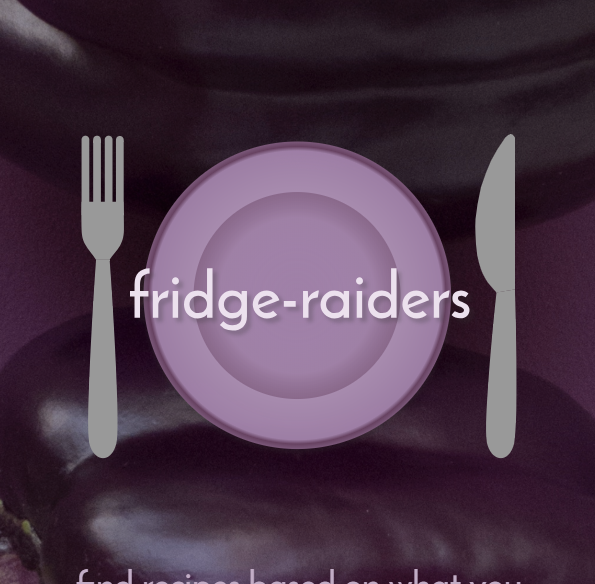
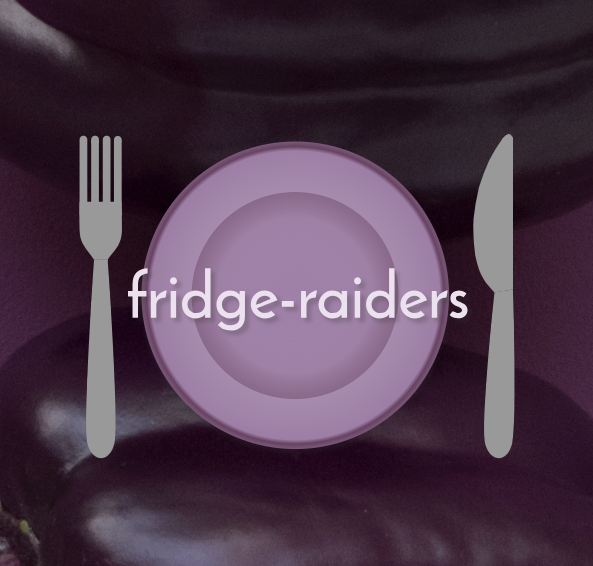
responsive

diff --git a/src/components/projects/projects.css b/src/components/projects/projects.css
@@ -7,7 +7,7 @@
 .projects-wrapper h1{
     color: rgb(150,150,150);
     font-size: 35px;
-    margin-bottom: 50px;
+    margin-bottom: 20px;
 }
 
 .carousel{
@@ -16,11 +16,11 @@
 }
 
 .carousel img{
-    height: 200px;
+    height: 250px;
 }
 
 .project-description{
-    margin: 0 0 25px 0;
+    margin: -9px 0 25px 0;
 }
 
 .mobile-project-title{
@@ -48,6 +48,135 @@
     margin: 0 30px;
 }
 
+@media(min-width:560px){
+.carousel{
+    width:70%;
+    margin-left:87px;
+}
+
+.carousel img{
+    height: 290px;
+}
+
+.project-description p{
+    color: rgb(150,150,150);
+    text-align: left;
+    font-size: 17px;
+    font-weight: 600;
+    padding: 5px 25px;
+    margin: 0 70px;
+}
+}
+
+@media(min-width:630px){
+.carousel{
+    width:70%;
+    margin-left:98px;
+}
+
+.carousel img{
+    height: 375px;
+}
+}
+
+@media(min-width:660px){
+    .project-description p{
+        margin: 0 78px;
+    }
+}
+
+@media(min-width:730px){
+.carousel{
+    width:75%;
+    margin-left:85px;
+}
+
+.project-description p{
+    margin: 0 70px 0 63px;
+}
+
+.carousel img{
+    height: 400px;
+}
+}
+
+@media(min-width:760px){
+    .mobile-project-title a{
+        font-size: 30px;
+    }
+
+    .project-description p{
+        margin: 0 77px 0 63px;
+    }
+}
+
+@media(min-width:800px){
+.carousel{
+    width:70%;
+    margin-left:122px;
+}
+
+.project-description p{
+    margin: 0 97px 0 95px;
+}
+
+.carousel img{
+    height: 425px;
+}
+}
+
+@media(min-width:1000px){
+.projects-wrapper{    
+    background-color: initial;
+    border-top: dashed 1px #fff;
+    padding-top: 40px;
+    padding-bottom: 40px;
+}
+
+.projects-wrapper h1{
+    color: #fff;
+    font-size: 50px;
+}
+
+.project-wrapper{
+    padding-left:50px;
+    display: flex;
+}
+
+.carousel{
+    width:50%;
+    margin: 25px 0 75px 0;
+    border: none;
+}
+
+.carousel img{
+    height: 400px
+}
+
+.project-description{
+    width: 35%;
+    margin: 10px 50px;
+}
+
+.project-description h1{
+    font-size: 23px;
+    margin-bottom: 10px;
+}
+
+.project-description a{
+    color: #fff;
+    text-decoration: underline;
+}
+
+.project-description p{
+    color: rgb(150,150,150);
+    text-align: left;
+    font-size: 16.5px;
+    font-weight: 600;
+    padding: 5px 0;
+    margin: 0 15px;
+}
+}
 @media(min-width:1200px){
 .projects-wrapper{    
     background-color: initial;
@@ -73,12 +202,12 @@
 }
 
 .carousel img{
-    height: 350px
+    height: 400px
 }
 
 .project-description{
     width: 35%;
-    margin: 0 50px;
+    margin: 10px 50px;
 }
 
 .project-description h1{

diff --git a/src/components/projects/TradingWheels.js b/src/components/projects/TradingWheels.js
@@ -15,7 +15,7 @@ class TradingWheels extends Component {
     return (
       <div >
       <Media 
-      query="(max-width: 750px)"
+      query="(max-width: 815px)"
       render={()=>
       <div>
         <h1 className="mobile-project-title"><a href="tradingwheelsinvestments.com">Tradingwheelsinvestments.com</a></h1>
@@ -57,7 +57,7 @@ React, JavaScript, HTML, CSS, and Auth0. The server was created with Node.js. Da
         }
       />
       <Media 
-      query="(min-width: 751px)"
+      query="(min-width: 816px)"
       render={()=>
       <div className="project-wrapper">
       <Carousel

diff --git a/src/components/projects/FridgeRaiders.js b/src/components/projects/FridgeRaiders.js
@@ -13,7 +13,7 @@ class FridgeRaiders extends Component {
     return (
       <div>
       <Media
-      query="(max-width:750px)"
+      query="(max-width:815px)"
       render={()=>
         <div>
           <h1 className="mobile-project-title"><a href='https://www.fridge-raiders.site/#/'>Fridge-raiders.site</a></h1>
@@ -46,7 +46,7 @@ class FridgeRaiders extends Component {
       </div>
       }/>
         <Media
-      query="(min-width:751px)"
+      query="(min-width:816px)"
       render={()=>
         <div className="project-wrapper">
       <Carousel

diff --git a/src/components/navbar/navbar.js b/src/components/navbar/navbar.js
@@ -17,7 +17,7 @@ class Navbar extends Component {
     return (
       <div className="navbar">
         <Media
-          query="(max-width:750px)"
+          query="(max-width:560px)"
           render={() => (
             <div>
               {this.state.hamburger === true ? (
@@ -45,7 +45,7 @@ class Navbar extends Component {
           )}
         />
         <Media
-          query="(min-width:751px)"
+          query="(min-width:561px)"
           render={() => (
             <div>
               <div className="navbar-wrapper">

diff --git a/src/components/title/title.css b/src/components/title/title.css
@@ -27,6 +27,34 @@ font-size: 17px;
     100%{opacity: 1}
 }
 
+@media(min-width:560px){
+    
+.full-name{
+justify-content: center;
+padding-top: 25px;
+font-size: 25px;
+}
+
+.first-name{
+    color: rgb(150, 150, 150);
+    margin-bottom: -30px;
+}
+
+.job-title{
+    font-size: 25px;
+    padding-top: 1px;
+    margin-bottom: 50px;
+    opacity: 1;
+    animation: fade 7s ease;
+    color: #61dbfb;
+}
+
+@keyframes fade{
+    0%{opacity: 0}
+    100%{opacity: 1}
+}
+}
+
 @media(min-width:1200px){
 .title{
     color: #fff;    

diff --git a/src/components/projects/Crf.js b/src/components/projects/Crf.js
@@ -13,7 +13,7 @@ class Crf extends Component {
     return (
       <div>
       <Media
-      query="(max-width:750px)"
+      query="(max-width:815px)"
       render={()=>
         <div>
           <h1 className="mobile-project-title"><a href="dsportklone1.com">Dsportklone1.com</a></h1>
@@ -47,7 +47,7 @@ class Crf extends Component {
       }
       />
       <Media
-      query="(min-width:751px)"
+      query="(min-width:816px)"
       render={()=>
         <div className="project-wrapper">
         <Carousel

diff --git a/src/components/navbar/navbar.css b/src/components/navbar/navbar.css
@@ -46,11 +46,25 @@
     transform: rotate(45deg) translate(-2px,-2px);
 }
 
-@media(min-width:1200px){
-.navbar{
-    background-color: #04080a50;
-}
 
+
+@media(min-width:560px){
+.navbar ul{
+    display: flex;
+    flex-direction: row;
+    justify-content: space-around;
+    padding: 25px 0;
+    margin-bottom: -25px;
+}
+  
+.navbar a{
+    color: #fff;
+    display: flex;
+    font-size: 18px;
+        }
+    }
+
+@media(min-width:1200px){
 .navbar ul{
     display: flex;
     flex-direction: row;

diff --git a/src/components/stack/stack.css b/src/components/stack/stack.css
@@ -41,7 +41,7 @@
     0%{opacity: 0}
     100%{opacity: 1}
 }
-@media(min-width: 1200px){
+@media(min-width: 1000px){
 .stack{
     border-top: dashed 1px #fff;
     padding-bottom: 25px;

diff --git a/src/components/navbar/dd_menu/dd.css b/src/components/navbar/dd_menu/dd.css
@@ -15,3 +15,9 @@
     font-size: 18px;
     padding: 10px 115px;
 }
+
+/* @media(min-width:550){
+    .navbar-dd a{
+        padding
+    }
+} */
